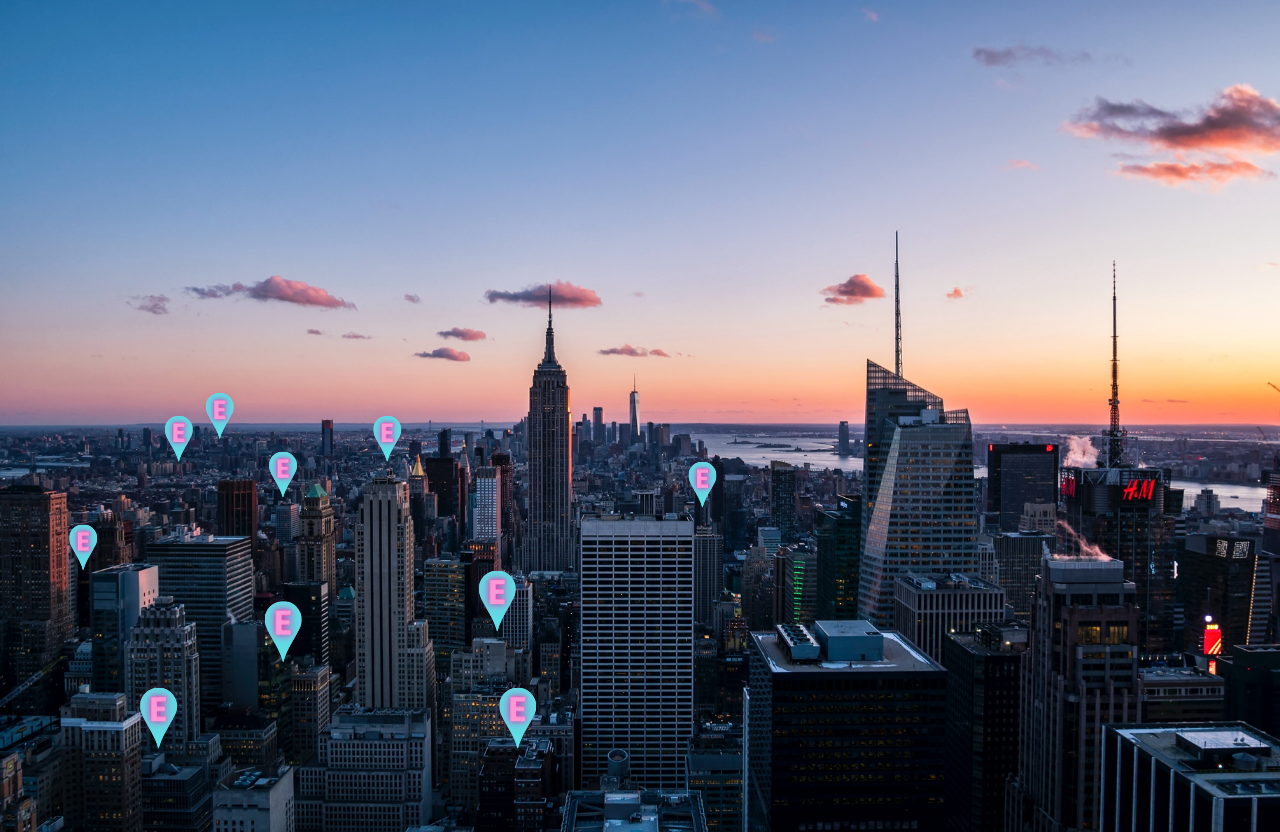
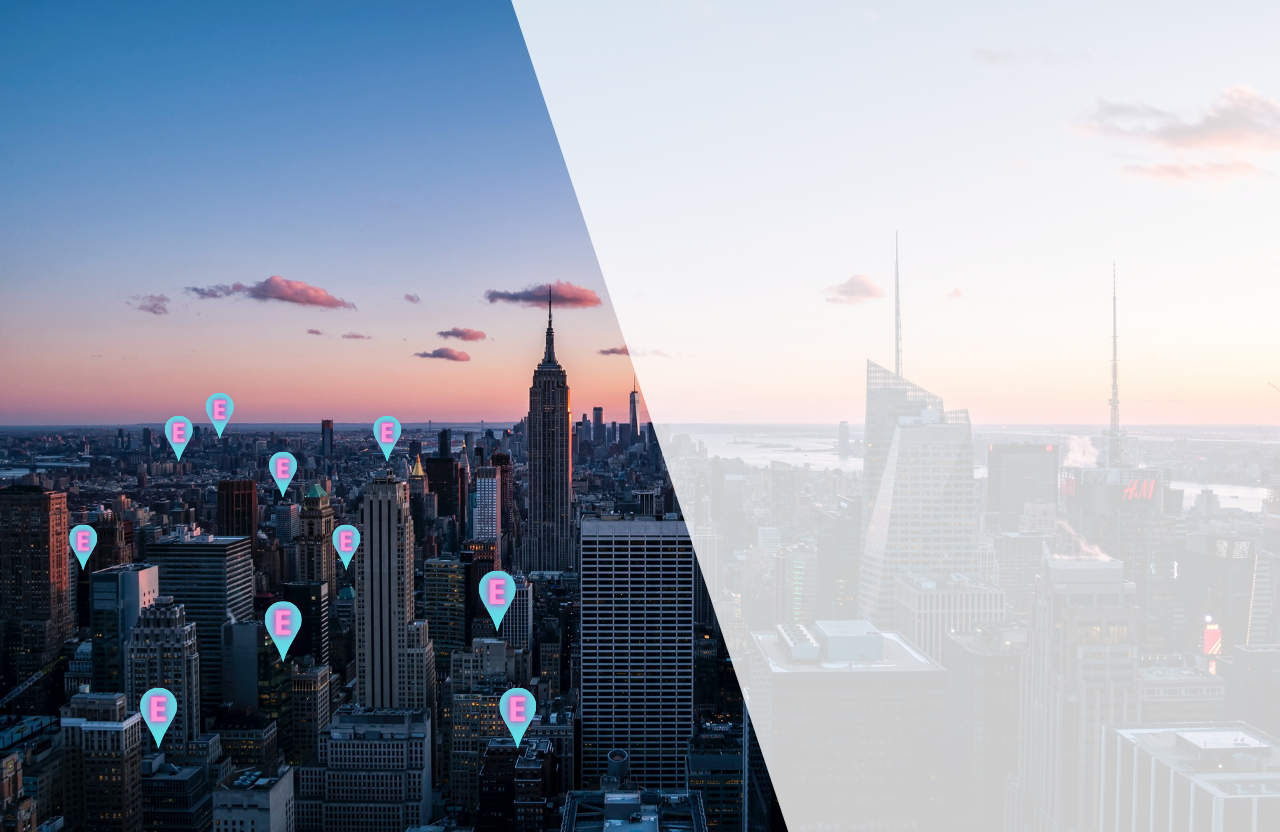
search bg updated

diff --git a/client/src/components/search/Search.jsx b/client/src/components/search/Search.jsx
@@ -7,13 +7,14 @@ import { useNavigate } from "react-router-dom";
 import { useState } from "react";
 
 
+
 const Search = () => {
 
     const navigate = useNavigate();
     const [destination, setDestination] = useState("");
 
     // URL constructor
-    const whitePicture = new URL("../../images/white-bg2.jpg", import.meta.url)
+    // const whitePicture = new URL("../../images/white-bg2.jpg", import.meta.url)
 
     // submit search 
     const handleSearch = () => {
@@ -22,6 +23,7 @@ const Search = () => {
 
 
     return (
+        <div class="Container">
          <div className="search-session">
             <div className="search-details">
                 <p><h1>New Option of Parking- EasyPark</h1></p>
@@ -34,9 +36,7 @@ const Search = () => {
                 </div>
             </div>
 
-            <div className="white-bg-container" >
-                <img className="white-bg-image" src={whitePicture} />
-            </div>
+        </div>
         </div>
     )
 }

diff --git a/client/src/components/search/search.css b/client/src/components/search/search.css
@@ -16,20 +16,11 @@
 
 }
 
-.white-bg-image {
-    width: 98%;
-    height: 165% ;
-    transform: rotate(15deg);
-    position: absolute;
-    left: 45%;
-    opacity: 0.8;
-   
-}
 
 .search-details {
     position: absolute;
-    margin-top: 200px;
-    margin-left: 900px;
+    margin-top: 100px;
+    margin-left: 700px;
     
     
 

diff --git a/client/src/pages/App.js b/client/src/pages/App.js
@@ -6,7 +6,7 @@ import {
   Link
 } from "react-router-dom";
 import Home from "./home/Home";
-import SignUp from "./signup/Signup";
+import SignUp from "./signUp/SignUp";
 import LogIn from "./login/Login"
 import List from "./list/List";
 import CarparkDetail from "./carparkDetail/carparkDetail";
